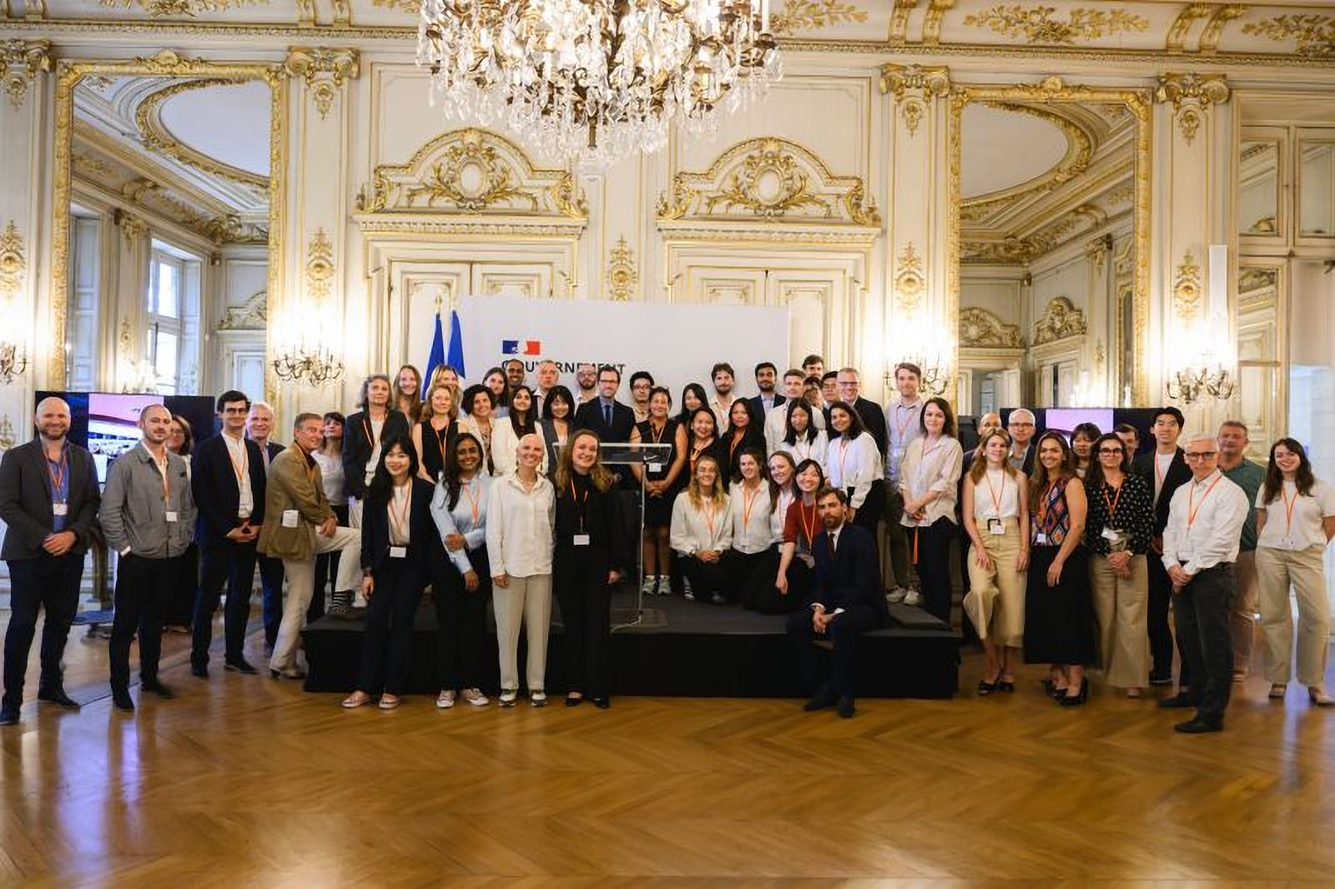
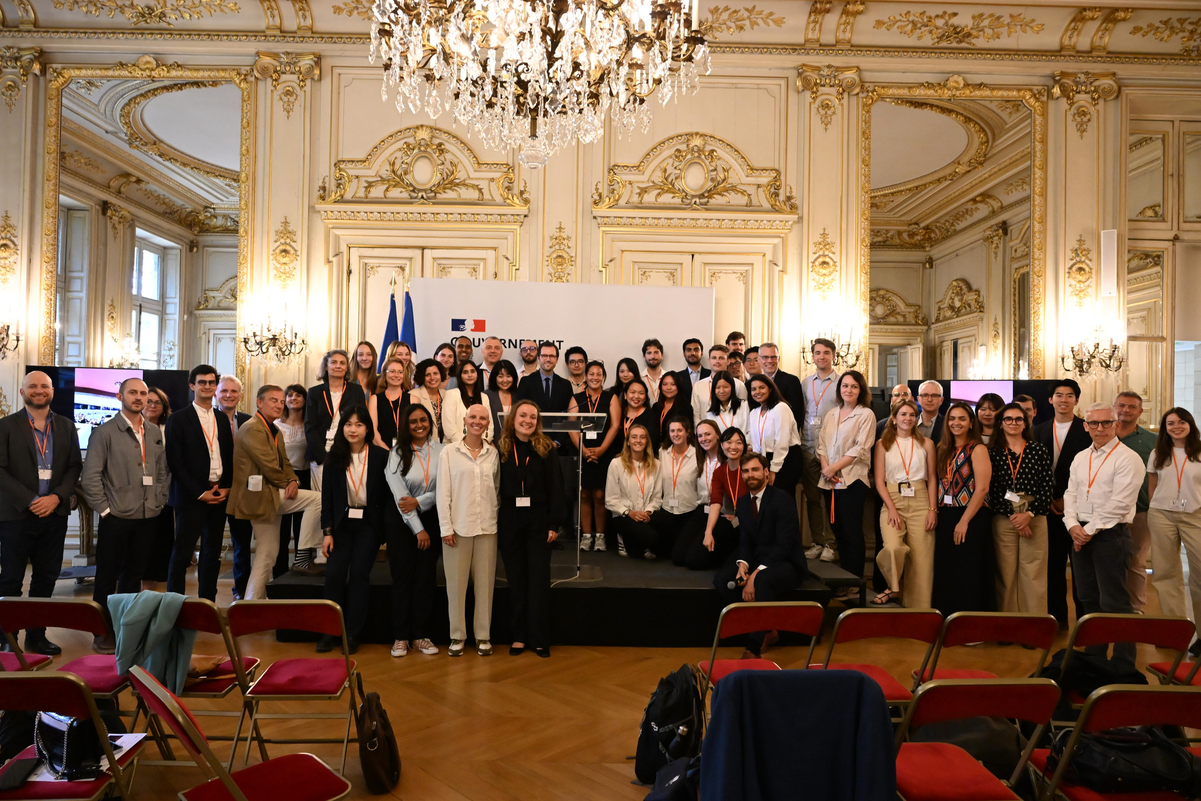
Use the Nikon Roquelaure photos as the homepage and jury images.
Replace the upscaled LinkedIn hero with DSC_3149, and put the two other camera originals on the Final Jury card and events page.

diff --git a/essec-circular-chair/events.html b/essec-circular-chair/events.html
@@ -8,7 +8,7 @@
   <link rel="preconnect" href="https://fonts.googleapis.com">
   <link rel="preconnect" href="https://fonts.gstatic.com" crossorigin>
   <link href="https://fonts.googleapis.com/css2?family=Mohave:wght@500;600;700&family=Noto+Sans:ital,wght@0,400;0,500;0,600;0,700;1,400&display=swap" rel="stylesheet">
-  <link rel="stylesheet" href="css/styles.css?v=20260824">
+  <link rel="stylesheet" href="css/styles.css?v=20260824b">
   <link rel="icon" href="assets/logo-essec-noir.svg" type="image/svg+xml">
 </head>
 <body>
@@ -66,7 +66,7 @@
 <section>
   <div class="wrap">
     <article class="split" style="margin-bottom:72px">
-      <img src="assets/pages/hero.jpg" alt="Final Jury June 2026 at the Hôtel de Roquelaure">
+      <img src="assets/pages/jury-2026-stage.jpg" alt="Project presentation at the Final Jury 2026, Hôtel de Roquelaure">
       <div>
         <div class="tag kicker">June 2026</div>
         <h2>Final Jury at the Hôtel de Roquelaure</h2>

diff --git a/essec-circular-chair/index.html b/essec-circular-chair/index.html
@@ -8,7 +8,7 @@
   <link rel="preconnect" href="https://fonts.googleapis.com">
   <link rel="preconnect" href="https://fonts.gstatic.com" crossorigin>
   <link href="https://fonts.googleapis.com/css2?family=Mohave:wght@500;600;700&family=Noto+Sans:ital,wght@0,400;0,500;0,600;0,700;1,400&display=swap" rel="stylesheet">
-  <link rel="stylesheet" href="css/styles.css?v=20260824">
+  <link rel="stylesheet" href="css/styles.css?v=20260824b">
   <link rel="icon" href="assets/logo-essec-noir.svg" type="image/svg+xml">
 </head>
 <body>
@@ -148,7 +148,7 @@
         </div>
       </article>
       <article class="media-card">
-        <img src="assets/pages/hero.jpg" alt="Final Jury 2026 at the Hôtel de Roquelaure">
+        <img src="assets/pages/jury-2026.jpg" alt="Students presenting at the Final Jury 2026, Hôtel de Roquelaure">
         <div class="body">
           <div class="tag">June 2026</div>
           <h3>Final Jury</h3>

diff --git a/essec-circular-chair/apply.html b/essec-circular-chair/apply.html
@@ -8,7 +8,7 @@
   <link rel="preconnect" href="https://fonts.googleapis.com">
   <link rel="preconnect" href="https://fonts.gstatic.com" crossorigin>
   <link href="https://fonts.googleapis.com/css2?family=Mohave:wght@500;600;700&family=Noto+Sans:ital,wght@0,400;0,500;0,600;0,700;1,400&display=swap" rel="stylesheet">
-  <link rel="stylesheet" href="css/styles.css?v=20260824">
+  <link rel="stylesheet" href="css/styles.css?v=20260824b">
   <link rel="icon" href="assets/logo-essec-noir.svg" type="image/svg+xml">
 </head>
 <body>

diff --git a/essec-circular-chair/circular-cac-40.html b/essec-circular-chair/circular-cac-40.html
@@ -8,7 +8,7 @@
   <link rel="preconnect" href="https://fonts.googleapis.com">
   <link rel="preconnect" href="https://fonts.gstatic.com" crossorigin>
   <link href="https://fonts.googleapis.com/css2?family=Mohave:wght@500;600;700&family=Noto+Sans:ital,wght@0,400;0,500;0,600;0,700;1,400&display=swap" rel="stylesheet">
-  <link rel="stylesheet" href="css/styles.css?v=20260824">
+  <link rel="stylesheet" href="css/styles.css?v=20260824b">
   <link rel="icon" href="assets/logo-essec-noir.svg" type="image/svg+xml">
 </head>
 <body>

diff --git a/essec-circular-chair/content.html b/essec-circular-chair/content.html
@@ -8,7 +8,7 @@
   <link rel="preconnect" href="https://fonts.googleapis.com">
   <link rel="preconnect" href="https://fonts.gstatic.com" crossorigin>
   <link href="https://fonts.googleapis.com/css2?family=Mohave:wght@500;600;700&family=Noto+Sans:ital,wght@0,400;0,500;0,600;0,700;1,400&display=swap" rel="stylesheet">
-  <link rel="stylesheet" href="css/styles.css?v=20260824">
+  <link rel="stylesheet" href="css/styles.css?v=20260824b">
   <link rel="icon" href="assets/logo-essec-noir.svg" type="image/svg+xml">
 </head>
 <body>

diff --git a/essec-circular-chair/education.html b/essec-circular-chair/education.html
@@ -8,7 +8,7 @@
   <link rel="preconnect" href="https://fonts.googleapis.com">
   <link rel="preconnect" href="https://fonts.gstatic.com" crossorigin>
   <link href="https://fonts.googleapis.com/css2?family=Mohave:wght@500;600;700&family=Noto+Sans:ital,wght@0,400;0,500;0,600;0,700;1,400&display=swap" rel="stylesheet">
-  <link rel="stylesheet" href="css/styles.css?v=20260824">
+  <link rel="stylesheet" href="css/styles.css?v=20260824b">
   <link rel="icon" href="assets/logo-essec-noir.svg" type="image/svg+xml">
 </head>
 <body>

diff --git a/essec-circular-chair/partners.html b/essec-circular-chair/partners.html
@@ -8,7 +8,7 @@
   <link rel="preconnect" href="https://fonts.googleapis.com">
   <link rel="preconnect" href="https://fonts.gstatic.com" crossorigin>
   <link href="https://fonts.googleapis.com/css2?family=Mohave:wght@500;600;700&family=Noto+Sans:ital,wght@0,400;0,500;0,600;0,700;1,400&display=swap" rel="stylesheet">
-  <link rel="stylesheet" href="css/styles.css?v=20260824">
+  <link rel="stylesheet" href="css/styles.css?v=20260824b">
   <link rel="icon" href="assets/logo-essec-noir.svg" type="image/svg+xml">
 </head>
 <body>

diff --git a/essec-circular-chair/program.html b/essec-circular-chair/program.html
@@ -8,7 +8,7 @@
   <link rel="preconnect" href="https://fonts.googleapis.com">
   <link rel="preconnect" href="https://fonts.gstatic.com" crossorigin>
   <link href="https://fonts.googleapis.com/css2?family=Mohave:wght@500;600;700&family=Noto+Sans:ital,wght@0,400;0,500;0,600;0,700;1,400&display=swap" rel="stylesheet">
-  <link rel="stylesheet" href="css/styles.css?v=20260824">
+  <link rel="stylesheet" href="css/styles.css?v=20260824b">
   <link rel="icon" href="assets/logo-essec-noir.svg" type="image/svg+xml">
 </head>
 <body>

diff --git a/essec-circular-chair/publications.html b/essec-circular-chair/publications.html
@@ -8,7 +8,7 @@
   <link rel="preconnect" href="https://fonts.googleapis.com">
   <link rel="preconnect" href="https://fonts.gstatic.com" crossorigin>
   <link href="https://fonts.googleapis.com/css2?family=Mohave:wght@500;600;700&family=Noto+Sans:ital,wght@0,400;0,500;0,600;0,700;1,400&display=swap" rel="stylesheet">
-  <link rel="stylesheet" href="css/styles.css?v=20260824">
+  <link rel="stylesheet" href="css/styles.css?v=20260824b">
   <link rel="icon" href="assets/logo-essec-noir.svg" type="image/svg+xml">
 </head>
 <body>

diff --git a/essec-circular-chair/site-visits.html b/essec-circular-chair/site-visits.html
@@ -8,7 +8,7 @@
   <link rel="preconnect" href="https://fonts.googleapis.com">
   <link rel="preconnect" href="https://fonts.gstatic.com" crossorigin>
   <link href="https://fonts.googleapis.com/css2?family=Mohave:wght@500;600;700&family=Noto+Sans:ital,wght@0,400;0,500;0,600;0,700;1,400&display=swap" rel="stylesheet">
-  <link rel="stylesheet" href="css/styles.css?v=20260824">
+  <link rel="stylesheet" href="css/styles.css?v=20260824b">
   <link rel="icon" href="assets/logo-essec-noir.svg" type="image/svg+xml">
 </head>
 <body>

diff --git a/essec-circular-chair/students.html b/essec-circular-chair/students.html
@@ -8,7 +8,7 @@
   <link rel="preconnect" href="https://fonts.googleapis.com">
   <link rel="preconnect" href="https://fonts.gstatic.com" crossorigin>
   <link href="https://fonts.googleapis.com/css2?family=Mohave:wght@500;600;700&family=Noto+Sans:ital,wght@0,400;0,500;0,600;0,700;1,400&display=swap" rel="stylesheet">
-  <link rel="stylesheet" href="css/styles.css?v=20260824">
+  <link rel="stylesheet" href="css/styles.css?v=20260824b">
   <link rel="icon" href="assets/logo-essec-noir.svg" type="image/svg+xml">
 </head>
 <body>

diff --git a/essec-circular-chair/study-trips.html b/essec-circular-chair/study-trips.html
@@ -8,7 +8,7 @@
   <link rel="preconnect" href="https://fonts.googleapis.com">
   <link rel="preconnect" href="https://fonts.gstatic.com" crossorigin>
   <link href="https://fonts.googleapis.com/css2?family=Mohave:wght@500;600;700&family=Noto+Sans:ital,wght@0,400;0,500;0,600;0,700;1,400&display=swap" rel="stylesheet">
-  <link rel="stylesheet" href="css/styles.css?v=20260824">
+  <link rel="stylesheet" href="css/styles.css?v=20260824b">
   <link rel="icon" href="assets/logo-essec-noir.svg" type="image/svg+xml">
 </head>
 <body>
